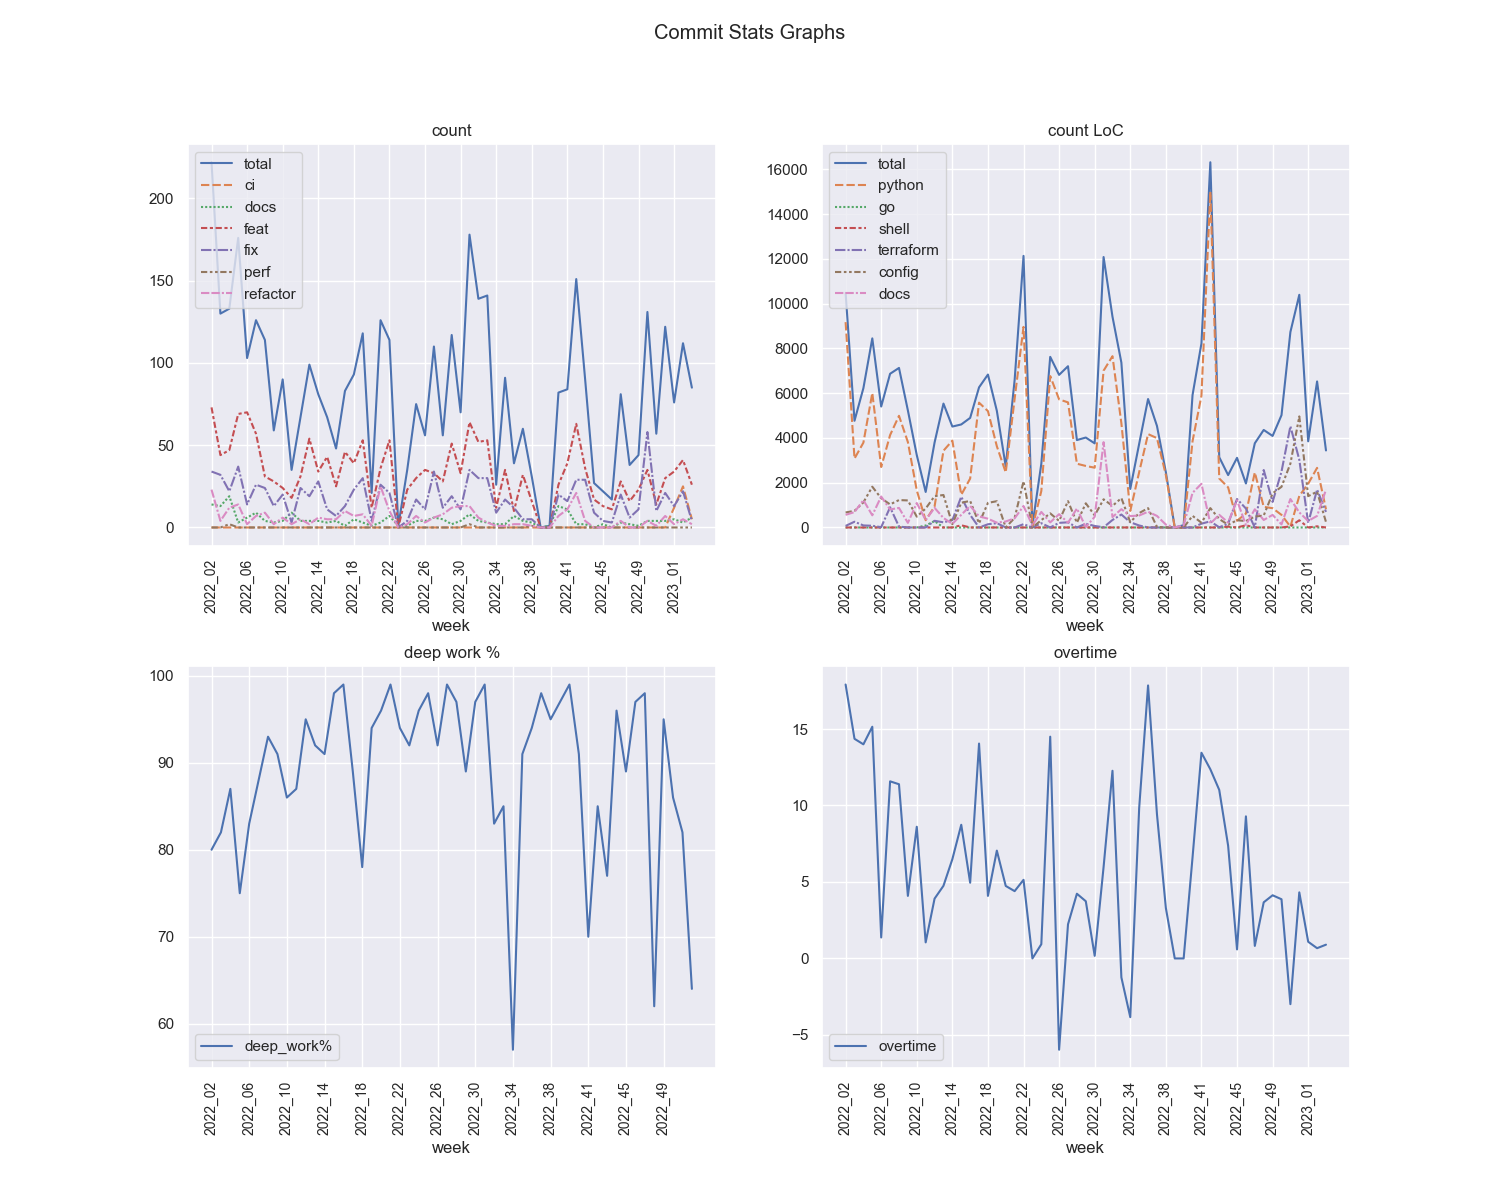
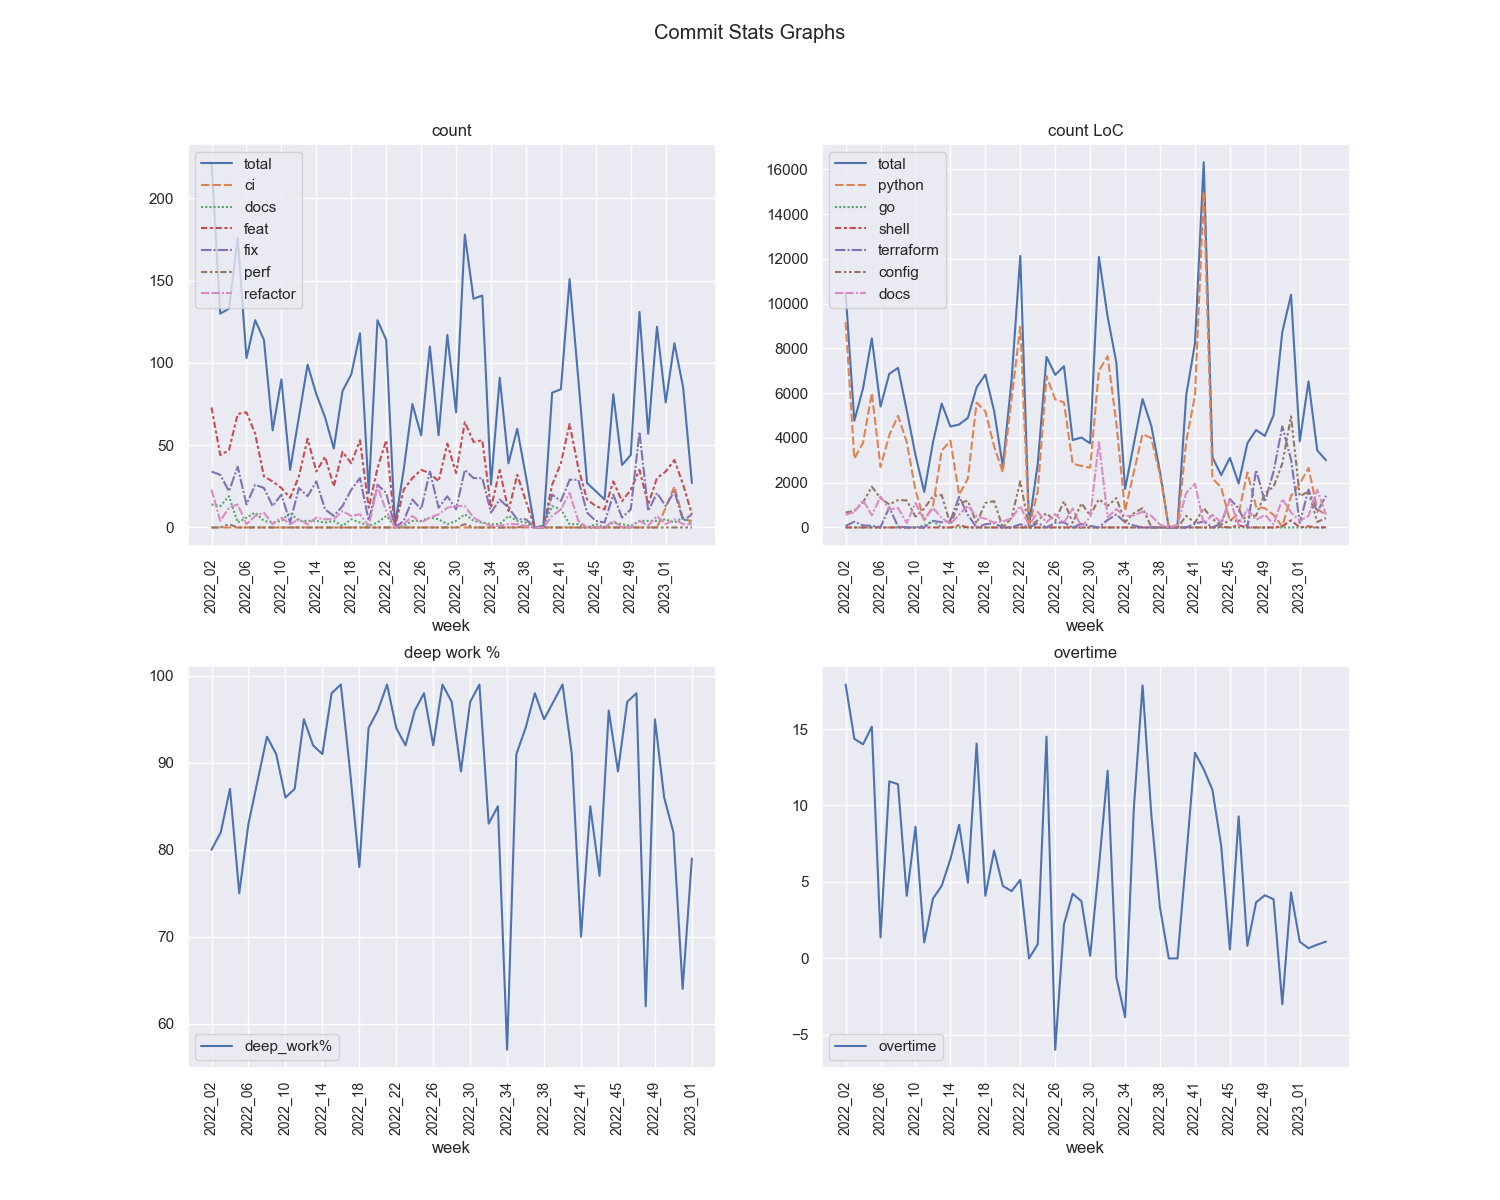
feat: new sick_days column. And updated stats

diff --git a/README.md b/README.md
@@ -72,15 +72,15 @@ When not coding, I like to climb, lift weights, walk on my hands, explore nature
 
 ## Key metrics
 <!-- KEY-METRICS:START -->
-Key Metrics dumped @ `2023-01-31T06-45Z`
+Key Metrics dumped @ `2023-02-06T08-42Z`
 
 ### Commits
 
 Metric | Total | Δ 52w | Δ 13w | Δ 1w
 --- | --- | --- | --- | ---
-commit_features | 1846 | 1613 | 324 | 26
-commit_fixes | 957 | 832 | 210 | 4
-commit_total | 4550 | 3889 | 902 | 85
+commit_features | 1854 | 1551 | 296 | 8
+commit_fixes | 965 | 826 | 189 | 8
+commit_total | 4577 | 3813 | 839 | 27
 
 - Based on [Angular Commit message guideline](https://github.com/angular/angular/blob/main/CONTRIBUTING.md#-commit-message-guidelines)
 
@@ -88,16 +88,17 @@ commit_total | 4550 | 3889 | 902 | 85
 
 Metric | Total | Δ 52w | Δ 13w | Δ 1w
 --- | --- | --- | --- | ---
-break% | 4.89 | 4.67 | 4.46 | 3
-deep_life% | 57.41 | 60.02 | 81.77 | 100
-deep_work% | 82.62 | 82.75 | 84 | 64
-life_days | 194 | 176 | 54 | 5
-life_hours | 318.27 | 303.04 | 116.2 | 12
-overtime | 318.41 | 256.99 | 44.75 | 0.9
+break% | 4.86 | 4.63 | 4.38 | 3
+deep_life% | 57.98 | 59.96 | 83.31 | 90
+deep_work% | 82.56 | 82.67 | 83.08 | 79
+life_days | 199 | 175 | 56 | 5
+life_hours | 326.83 | 303.36 | 119.38 | 8.56
+overtime | 319.51 | 256.72 | 34.83 | 1.1
 public_holidays | 11 | 11 | 2 | 0
-vacation_days | 27 | 27 | 0 | 0
-work_days | 264 | 242 | 68 | 5
-work_hours | 2078.01 | 1921.99 | 524.72 | 38.39
+sick_days | 1 | 1 | 1 | 1
+vacation_days | 27 | 26 | 0 | 0
+work_days | 268 | 242 | 67 | 4
+work_hours | 2109.12 | 1921.74 | 507.31 | 31.11
 
 - break% is `break_time` / `total_hours`, where break_time is going to the bathroom, pomodoro break, quick snack, coffee, etc.
 - deep_{life/work}% are inspired by [Cal Newport](https://www.calnewport.com/) where I track time either as _deep_ (focused work, e.g., coding, design writing, research, etc.) or _shallow_ (virtual meeting with many participants, slack chats, email replying, etc.)
@@ -109,18 +110,18 @@ work_hours | 2078.01 | 1921.99 | 524.72 | 38.39
 
 Metric | Total | Δ 52w | Δ 13w | Δ 1w
 --- | --- | --- | --- | ---
-config_add | 34668 | 31765 | 11224 | 240
-config_del | 13707 | 12255 | 5304 | 5
-docs_add | 27385 | 25444 | 7263 | 1379
-docs_del | 8878 | 7801 | 1138 | 308
+config_add | 34837 | 30747 | 11066 | 169
+config_del | 13960 | 12390 | 5506 | 253
+docs_add | 27767 | 24825 | 7111 | 382
+docs_del | 9071 | 7612 | 1300 | 193
 go_add | 274 | 274 | 0 | 0
 go_del | 99 | 99 | 0 | 0
-python_add | 132580 | 117544 | 13493 | 621
-python_del | 52822 | 45816 | 3088 | 192
-shell_add | 522 | 522 | 424 | 0
-shell_del | 134 | 134 | 134 | 0
-terraform_add | 18802 | 18438 | 12916 | 564
-terraform_del | 7110 | 6979 | 5721 | 131
+python_add | 133077 | 116355 | 12325 | 497
+python_del | 52908 | 44888 | 2650 | 86
+shell_add | 525 | 525 | 427 | 3
+shell_del | 137 | 137 | 137 | 3
+terraform_add | 19536 | 19162 | 13646 | 734
+terraform_del | 7794 | 7660 | 6402 | 684
 
 - python is for files ending in: ".py",".pyi"
 - go is for files ending in: ".go"
@@ -133,13 +134,13 @@ terraform_del | 7110 | 6979 | 5721 | 131
 
 Metric | Total | Δ 52w | Δ 13w | Δ 1w
 --- | --- | --- | --- | ---
-design_spec | 11 | 8 | 3 | 1
-dockerfile | 39 | 27 | 4 | 1
+design_spec | 11 | 8 | 3 | 0
+dockerfile | 39 | 27 | 4 | 0
 helm_chart | 36 | 26 | 6 | 0
 pypi_package | 92 | 29 | 0 | 0
 python_package | 36 | 26 | 6 | 0
-terraform_module | 54 | 51 | 30 | 1
-uml_diagram | 34 | 32 | 11 | 2
+terraform_module | 56 | 53 | 32 | 2
+uml_diagram | 34 | 32 | 9 | 0
 <!-- KEY-METRICS:END -->
 - `pypi_package` are 3rd party packages used, see list in [requirements.txt](./requirements.txt)
 - `python_package` are local packages I have created
